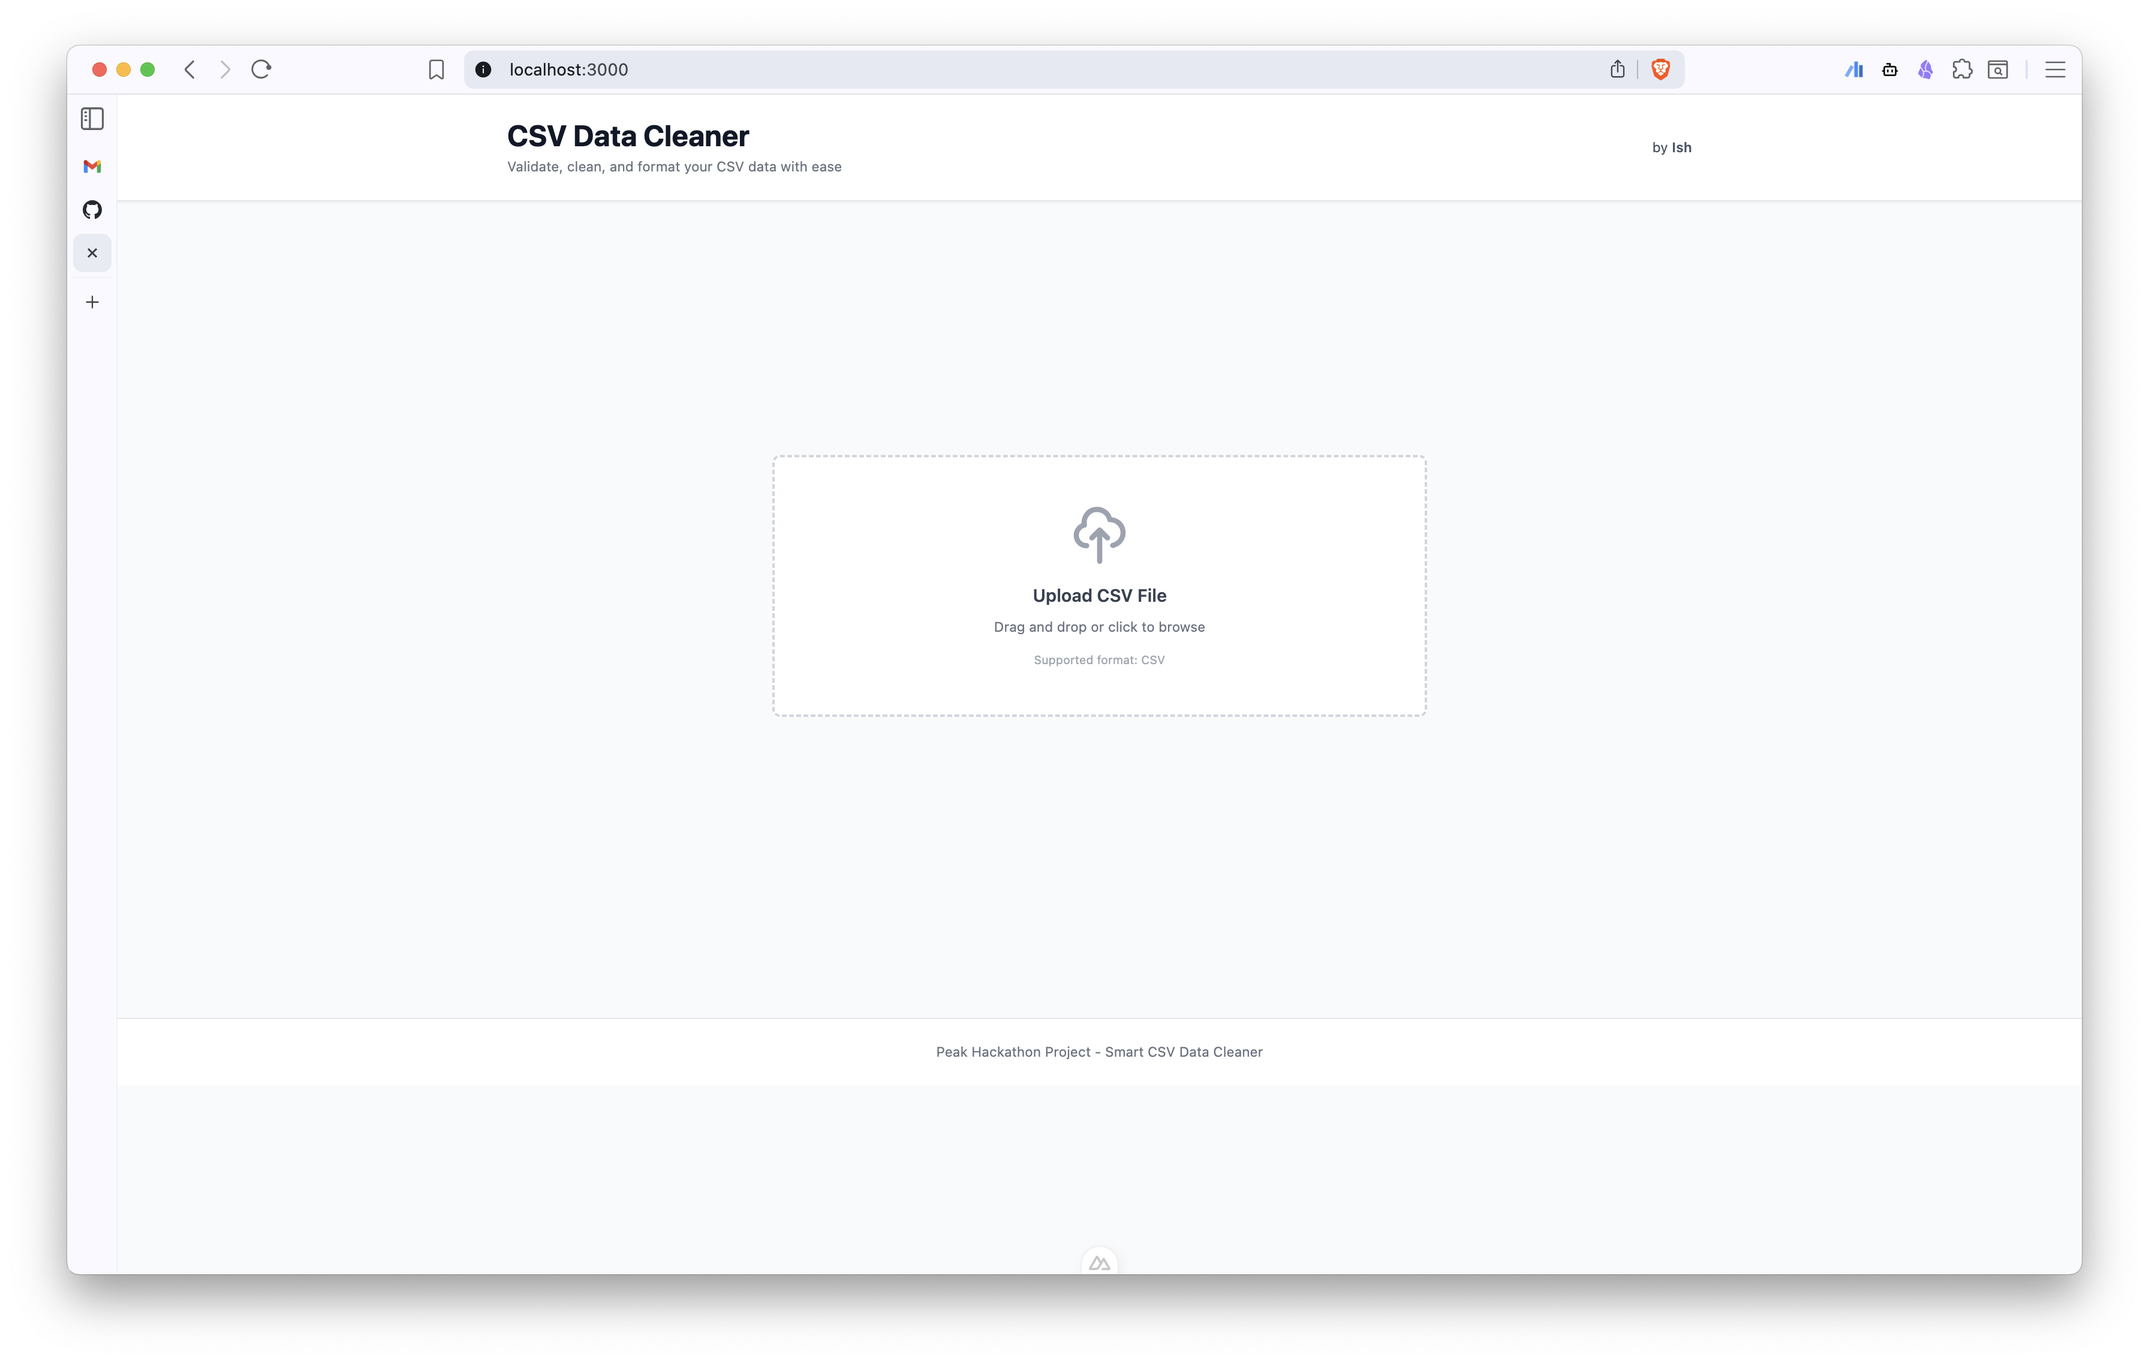
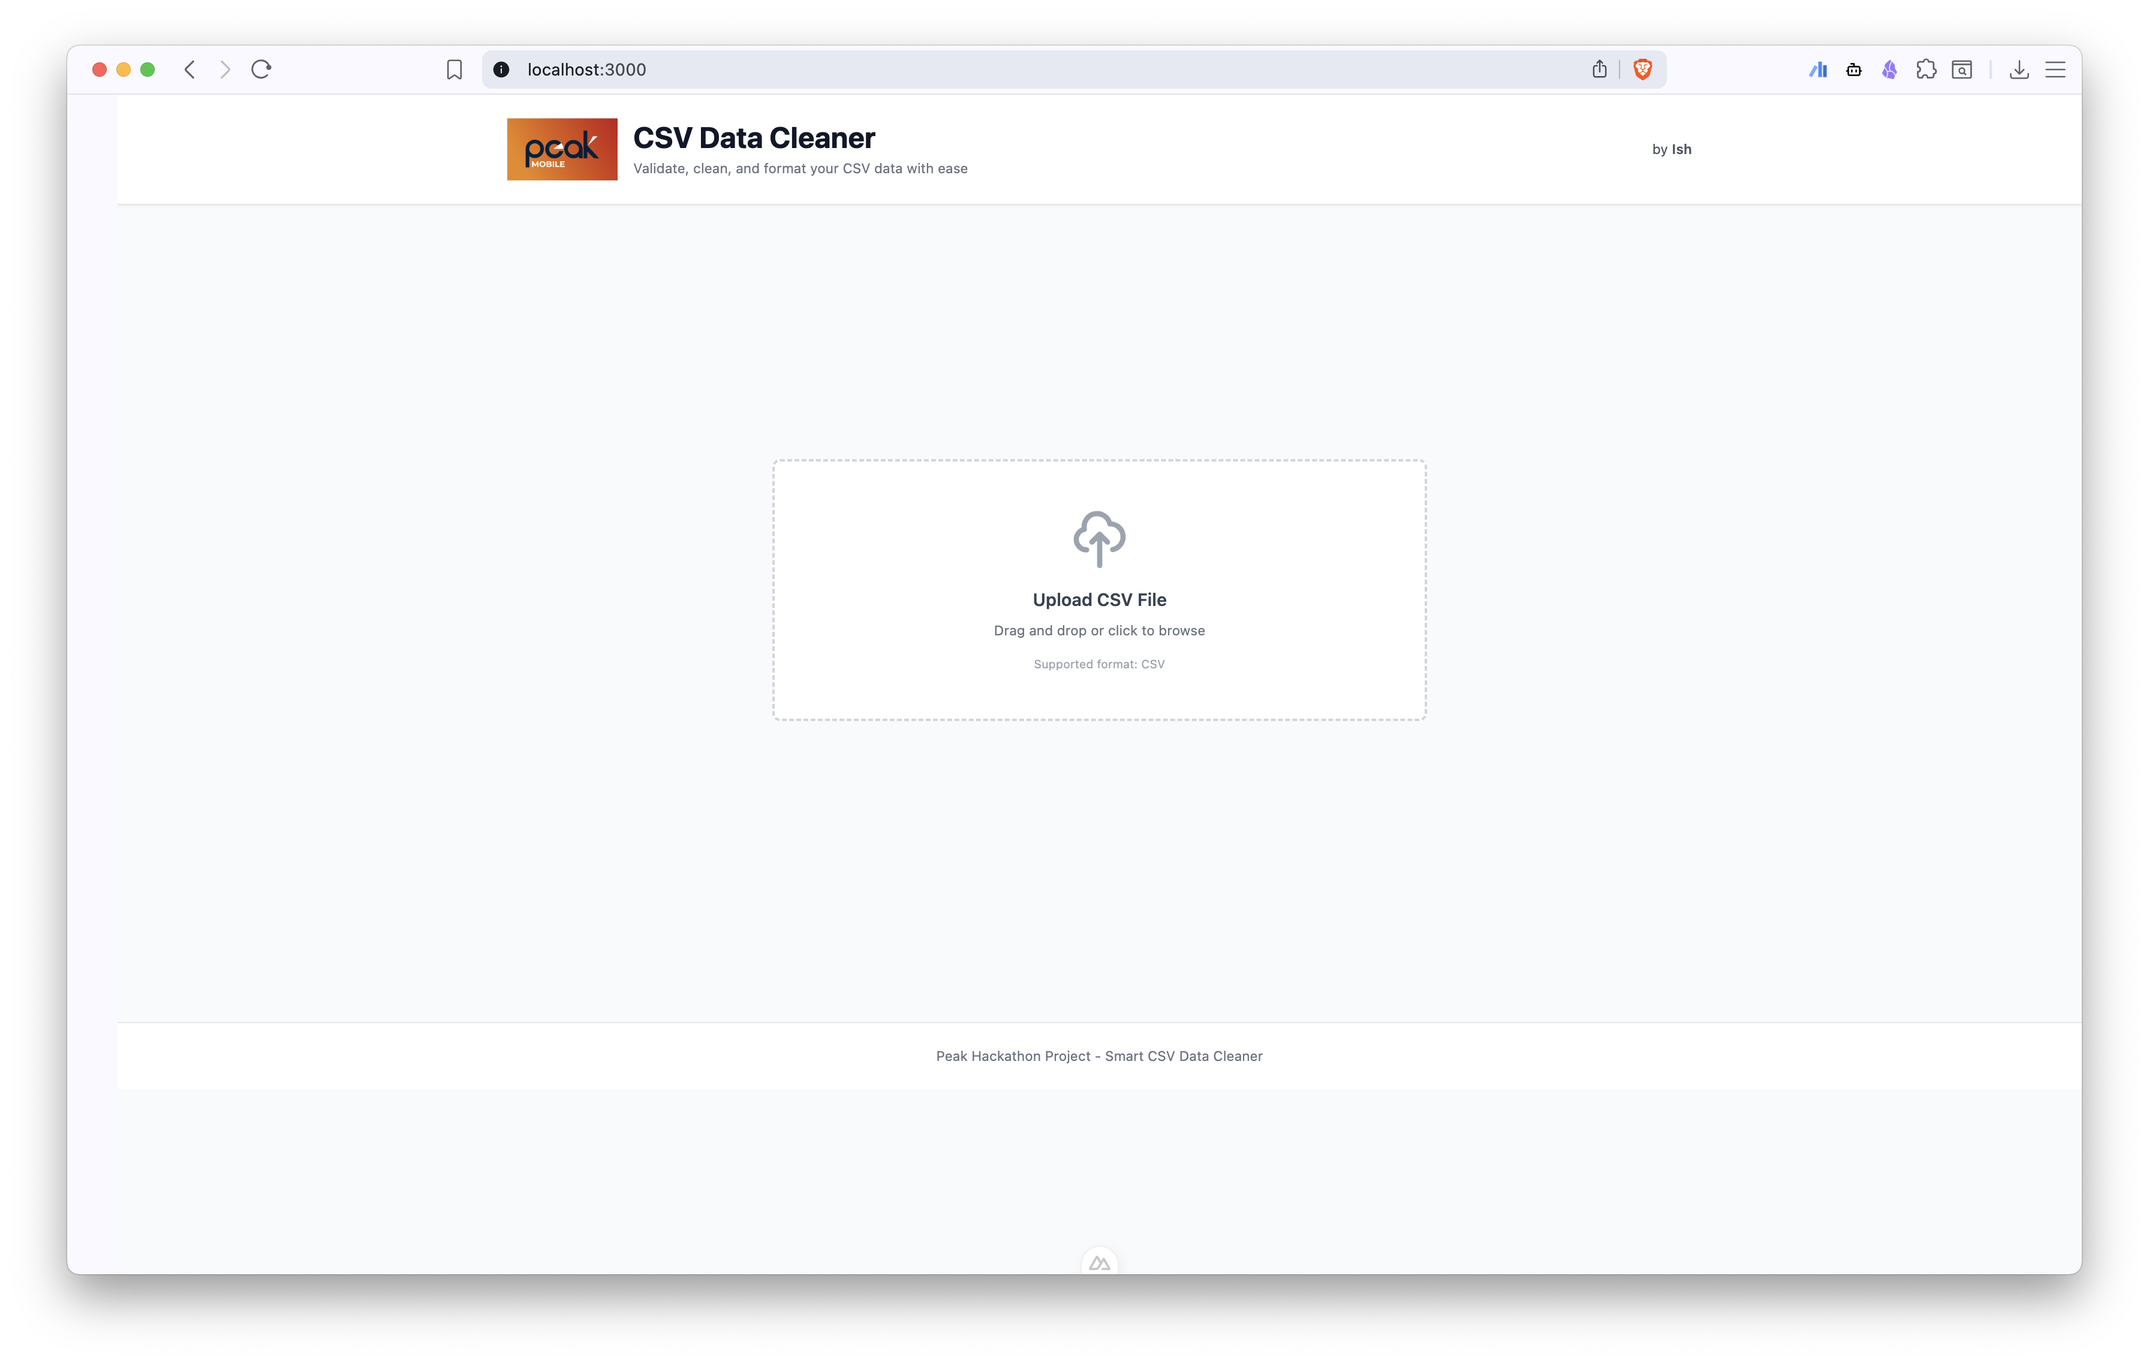
docs: add missing screenshots (statistics and download/filter options) to README

diff --git a/app/components/table/DataTable.vue b/app/components/table/DataTable.vue
@@ -160,7 +160,7 @@ const deleteSelected = () => {
 
 const getRowClass = (row: CsvRow) => {
   const baseClass = selectedRows.value.has(row._id!) 
-    ? 'ring-2 ring-blue-500 ring-offset-2' 
+    ? 'ring-2 ring-primary-500 ring-offset-2' 
     : ''
   
   switch (row._status) {
@@ -233,7 +233,7 @@ const sortByPackage = () => {
               v-model="searchQuery"
               type="text"
               placeholder="Search..."
-              class="w-full pl-10 pr-4 py-2 border border-gray-300 rounded-lg text-sm focus:ring-2 focus:ring-blue-500 focus:border-transparent h-9"
+              class="w-full pl-10 pr-4 py-2 border border-gray-300 rounded-lg text-sm focus:ring-2 focus:ring-primary-500 focus:border-transparent h-9"
             >
             <svg class="absolute left-3 top-2.5 w-5 h-5 text-gray-400" fill="none" stroke="currentColor" viewBox="0 0 24 24">
               <path stroke-linecap="round" stroke-linejoin="round" stroke-width="2" d="M21 21l-6-6m2-5a7 7 0 11-14 0 7 7 0 0114 0z" />
@@ -251,7 +251,7 @@ const sortByPackage = () => {
               <path stroke-linecap="round" stroke-linejoin="round" stroke-width="2" d="M3 4a1 1 0 011-1h16a1 1 0 011 1v2.586a1 1 0 01-.293.707l-6.414 6.414a1 1 0 00-.293.707V17l-4 4v-6.586a1 1 0 00-.293-.707L3.293 7.293A1 1 0 013 6.586V4z" />
             </svg>
             <span class="whitespace-nowrap">Filters</span>
-            <span v-if="statusFilter !== 'all' || telcoFilter.length > 0" class="ml-1.5 bg-blue-500 text-white rounded-full w-5 h-5 flex items-center justify-center text-xs flex-shrink-0">
+            <span v-if="statusFilter !== 'all' || telcoFilter.length > 0" class="ml-1.5 bg-primary-500 text-white rounded-full w-5 h-5 flex items-center justify-center text-xs flex-shrink-0">
               {{ (statusFilter !== 'all' ? 1 : 0) + telcoFilter.length }}
             </span>
           </UiButton>
@@ -263,7 +263,7 @@ const sortByPackage = () => {
             <label class="text-sm text-gray-600 whitespace-nowrap">Rows:</label>
             <select
               v-model.number="pageSize"
-              class="px-2 py-1 border border-gray-300 rounded text-sm focus:ring-2 focus:ring-blue-500 focus:border-transparent h-9"
+              class="px-2 py-1 border border-gray-300 rounded text-sm focus:ring-2 focus:ring-primary-500 focus:border-transparent h-9"
               @change="changePageSize"
             >
               <option v-for="size in pageSizeOptions" :key="size" :value="size">
@@ -308,8 +308,8 @@ const sortByPackage = () => {
               :key="status"
               class="px-3 py-1.5 rounded-lg border-2 text-sm font-medium transition-all capitalize"
               :class="statusFilter === status
-                ? 'border-blue-500 bg-blue-500 text-white'
-                : 'border-gray-300 bg-white text-gray-700 hover:border-blue-300'"
+                ? 'border-primary-500 bg-primary-500 text-white'
+                : 'border-gray-300 bg-white text-gray-700 hover:border-primary-300'"
               @click="statusFilter = status"
             >
               {{ status }}
@@ -384,7 +384,7 @@ const sortByPackage = () => {
                   type="checkbox"
                   :checked="selectedRows.size === paginatedRows.length && paginatedRows.length > 0"
                   :indeterminate="selectedRows.size > 0 && selectedRows.size < paginatedRows.length"
-                  class="w-4 h-4 text-blue-600 border-gray-300 rounded focus:ring-blue-500"
+                  class="w-4 h-4 text-primary-600 border-gray-300 rounded focus:ring-primary-500"
                   @change="selectAll"
                 >
               </th>
@@ -415,7 +415,7 @@ const sortByPackage = () => {
                 <input
                   type="checkbox"
                   :checked="selectedRows.has(row._id!)"
-                  class="w-4 h-4 text-blue-600 border-gray-300 rounded focus:ring-blue-500"
+                  class="w-4 h-4 text-primary-600 border-gray-300 rounded focus:ring-primary-500"
                   @change="toggleRowSelection(row._id!)"
                 >
               </td>
@@ -438,7 +438,7 @@ const sortByPackage = () => {
                   <input
                     v-if="editingRow === row._id"
                     v-model="row[header]"
-                    class="w-full px-2 py-1 border border-blue-300 rounded focus:outline-none focus:ring-2 focus:ring-blue-500 text-sm"
+                    class="w-full px-2 py-1 border border-primary-300 rounded focus:outline-none focus:ring-2 focus:ring-primary-500 text-sm"
                     autofocus
                     @blur="saveEdit(row)"
                     @keyup.enter="saveEdit(row)"
@@ -458,7 +458,7 @@ const sortByPackage = () => {
                       :class="{
                         'text-green-600': row._telco === 'Safaricom',
                         'text-red-600': row._telco === 'Airtel',
-                        'text-blue-600': row._telco === 'Telkom'
+                        'text-primary-600': row._telco === 'Telkom'
                       }"
                     >
                       ({{ row._telco }})
@@ -552,7 +552,7 @@ const sortByPackage = () => {
               :key="page"
               class="px-3 py-1.5 border rounded text-sm font-medium transition-colors"
               :class="page === currentPage 
-                ? 'bg-blue-600 text-white border-blue-600' 
+                ? 'bg-primary-600 text-white border-primary-600' 
                 : 'bg-white text-gray-700 border-gray-300 hover:bg-gray-50'"
               @click="goToPage(page)"
             >
@@ -591,7 +591,7 @@ const sortByPackage = () => {
             min="1"
             :max="totalPages"
             :value="currentPage"
-            class="w-16 px-2 py-1.5 border border-gray-300 rounded text-sm text-center focus:ring-2 focus:ring-blue-500 focus:border-transparent"
+            class="w-16 px-2 py-1.5 border border-gray-300 rounded text-sm text-center focus:ring-2 focus:ring-primary-500 focus:border-transparent"
             @change="(e) => goToPage(parseInt((e.target as HTMLInputElement).value))"
           >
         </div>

diff --git a/app/components/dashboard/StatsSummary.vue b/app/components/dashboard/StatsSummary.vue
@@ -72,10 +72,10 @@ const statCards = computed(() => [
     label: 'Success Rate',
     value: `${successRate.value}%`,
     icon: '📈',
-    color: 'blue',
-    bg: 'bg-blue-50',
-    text: 'text-blue-700',
-    border: 'border-blue-200'
+    color: 'primary',
+    bg: 'bg-primary-50',
+    text: 'text-primary-700',
+    border: 'border-primary-200'
   }
 ])
 </script>
@@ -85,7 +85,7 @@ const statCards = computed(() => [
     <!-- Header -->
     <div class="flex items-center justify-between">
       <h2 class="text-xl font-bold text-gray-900 flex items-center gap-2">
-        <svg class="w-6 h-6 text-blue-600" fill="none" stroke="currentColor" viewBox="0 0 24 24">
+        <svg class="w-6 h-6 text-primary-600" fill="none" stroke="currentColor" viewBox="0 0 24 24">
           <path stroke-linecap="round" stroke-linejoin="round" stroke-width="2" d="M9 19v-6a2 2 0 00-2-2H5a2 2 0 00-2 2v6a2 2 0 002 2h2a2 2 0 002-2zm0 0V9a2 2 0 012-2h2a2 2 0 012 2v10m-6 0a2 2 0 002 2h2a2 2 0 002-2m0 0V5a2 2 0 012-2h2a2 2 0 012 2v14a2 2 0 01-2 2h-2a2 2 0 01-2-2z" />
         </svg>
         Data Summary
@@ -178,13 +178,13 @@ const statCards = computed(() => [
     <div class="border-t border-gray-200 pt-6">
       <div class="flex items-center justify-between mb-4">
         <h3 class="text-base font-semibold text-gray-900 flex items-center gap-2">
-          <svg class="w-5 h-5 text-blue-600" fill="none" stroke="currentColor" viewBox="0 0 24 24">
+          <svg class="w-5 h-5 text-primary-600" fill="none" stroke="currentColor" viewBox="0 0 24 24">
             <path stroke-linecap="round" stroke-linejoin="round" stroke-width="2" d="M12 8c-1.657 0-3 .895-3 2s1.343 2 3 2 3 .895 3 2-1.343 2-3 2m0-8c1.11 0 2.08.402 2.599 1M12 8V7m0 1v8m0 0v1m0-1c-1.11 0-2.08-.402-2.599-1M21 12a9 9 0 11-18 0 9 9 0 0118 0z" />
           </svg>
            Mocked Balance Analysis
         </h3>
         <button
-          class="text-sm text-blue-600 hover:text-blue-700 font-medium flex items-center gap-1 transition-colors"
+          class="text-sm text-primary-600 hover:text-primary-700 font-medium flex items-center gap-1 transition-colors"
           @click="toggleBalanceInput"
         >
           <svg class="w-4 h-4" fill="none" stroke="currentColor" viewBox="0 0 24 24">
@@ -205,7 +205,7 @@ const statCards = computed(() => [
               min="0"
               step="1"
               placeholder="Enter available units"
-              class="w-full px-4 py-2.5 border-2 border-gray-300 rounded-lg text-sm focus:ring-2 focus:ring-blue-500 focus:border-blue-500 transition-all"
+              class="w-full px-4 py-2.5 border-2 border-gray-300 rounded-lg text-sm focus:ring-2 focus:ring-primary-500 focus:border-primary-500 transition-all"
               @input="handleBalanceInput"
             >
           </div>

diff --git a/app/components/upload/UploadZone.vue b/app/components/upload/UploadZone.vue
@@ -67,7 +67,7 @@ const processFile = async (file: File) => {
     <div
       class="border-2 border-dashed rounded-lg p-12 text-center cursor-pointer transition-all duration-200"
       :class="{
-        'border-blue-500 bg-blue-50': isDragging,
+        'border-primary-500 bg-primary-50': isDragging,
         'border-gray-300 hover:border-gray-400 bg-white': !isDragging
       }"
       @drop.prevent="handleDrop"
@@ -79,7 +79,7 @@ const processFile = async (file: File) => {
         <!-- Upload Icon -->
         <svg
           class="w-16 h-16 text-gray-400"
-          :class="{ 'text-blue-500': isDragging }"
+          :class="{ 'text-primary-500': isDragging }"
           fill="none"
           stroke="currentColor"
           viewBox="0 0 24 24"
@@ -127,11 +127,11 @@ const processFile = async (file: File) => {
     <!-- Loading state -->
     <div
       v-if="isUploading"
-      class="mt-4 p-4 bg-blue-50 border border-blue-200 rounded-lg"
+      class="mt-4 p-4 bg-primary-50 border border-primary-200 rounded-lg"
     >
       <div class="flex items-center space-x-3">
-        <div class="animate-spin h-5 w-5 border-2 border-blue-500 border-t-transparent rounded-full"/>
-        <span class="text-sm text-blue-700">Processing your CSV file...</span>
+        <div class="animate-spin h-5 w-5 border-2 border-primary-500 border-t-transparent rounded-full"/>
+        <span class="text-sm text-primary-700">Processing your CSV file...</span>
       </div>
     </div>
   </div>

diff --git a/app/app.vue b/app/app.vue
@@ -12,13 +12,20 @@ const handleFileUpload = (file: File) => {
     <header class="bg-white border-b border-gray-200 shadow-sm">
       <div class="max-w-7xl mx-auto px-4 sm:px-6 lg:px-8 py-6">
         <div class="flex items-center justify-between">
-          <div>
-            <h1 class="text-3xl font-bold text-gray-900">
-              CSV Data Cleaner
-            </h1>
-            <p class="text-sm text-gray-500 mt-1">
-              Validate, clean, and format your CSV data with ease
-            </p>
+          <div class="flex items-center gap-4">
+            <img 
+              src="/logos/logo_1.jpeg" 
+              alt="CSV Cleaner Logo" 
+              class="h-16 w-auto object-contain"
+            >
+            <div>
+              <h1 class="text-3xl font-bold text-gray-900">
+                CSV Data Cleaner
+              </h1>
+              <p class="text-sm text-gray-500 mt-1">
+                Validate, clean, and format your CSV data with ease
+              </p>
+            </div>
           </div>
           <div class="text-right">
             <p class="text-sm text-gray-600">by <span class="font-semibold">Ish</span></p>

diff --git a/app/components/ui/Button.vue b/app/components/ui/Button.vue
@@ -21,7 +21,7 @@ const buttonClasses = computed(() => {
   const base = 'font-medium rounded-lg transition-colors duration-200 focus:outline-none focus:ring-2 focus:ring-offset-2'
   
   const variants = {
-    primary: 'bg-blue-600 text-white hover:bg-blue-700 focus:ring-blue-500 disabled:bg-blue-300',
+    primary: 'bg-primary-600 text-white hover:bg-primary-700 focus:ring-primary-500 disabled:bg-primary-300',
     secondary: 'bg-gray-600 text-white hover:bg-gray-700 focus:ring-gray-500 disabled:bg-gray-300',
     danger: 'bg-red-600 text-white hover:bg-red-700 focus:ring-red-500 disabled:bg-red-300',
     success: 'bg-green-600 text-white hover:bg-green-700 focus:ring-green-500 disabled:bg-green-300',

diff --git a/app/components/ui/Alert.vue b/app/components/ui/Alert.vue
@@ -14,7 +14,7 @@ const alertClasses = computed(() => {
     success: 'bg-green-50 border-green-200 text-green-800',
     error: 'bg-red-50 border-red-200 text-red-800',
     warning: 'bg-yellow-50 border-yellow-200 text-yellow-800',
-    info: 'bg-blue-50 border-blue-200 text-blue-800'
+    info: 'bg-primary-50 border-primary-200 text-primary-800'
   }
   
   return [base, variants[props.variant]].join(' ')
@@ -63,7 +63,7 @@ const alertClasses = computed(() => {
         </svg>
         <svg
           v-else
-          class="h-5 w-5 text-blue-600"
+          class="h-5 w-5 text-primary-600"
           fill="currentColor"
           viewBox="0 0 20 20"
         >

diff --git a/tailwind.config.js b/tailwind.config.js
@@ -1,0 +1,31 @@
+/** @type {import('tailwindcss').Config} */
+export default {
+  content: [
+    "./components/**/*.{js,vue,ts}",
+    "./layouts/**/*.vue",
+    "./pages/**/*.vue",
+    "./plugins/**/*.{js,ts}",
+    "./app.vue",
+    "./app/**/*.vue",
+  ],
+  theme: {
+    extend: {
+      colors: {
+        primary: {
+          50: '#f5f3ff',
+          100: '#ede9fe',
+          200: '#ddd6fe',
+          300: '#c4b5fd',
+          400: '#a78bfa',
+          500: '#8b5cf6',
+          600: '#7c3aed',
+          700: '#6d28d9',
+          800: '#5b21b6',
+          900: '#4c1d95',
+        },
+      },
+    },
+  },
+  plugins: [],
+}
+

diff --git a/app/components/export/ExportControls.vue b/app/components/export/ExportControls.vue
@@ -273,7 +273,7 @@ const formatIcons = {
             <label class="block text-sm font-medium text-gray-700">Select Columns (Optional)</label>
             <div class="flex gap-2">
               <button
-                class="text-xs px-2 py-1 bg-blue-50 text-blue-600 hover:bg-blue-100 rounded font-medium transition-colors"
+                class="text-xs px-2 py-1 bg-primary-50 text-primary-600 hover:bg-primary-100 rounded font-medium transition-colors"
                 @click="selectAllColumns"
               >
                 Select All

diff --git a/app/components/ui/Badge.vue b/app/components/ui/Badge.vue
@@ -16,7 +16,7 @@ const badgeClasses = computed(() => {
     success: 'bg-green-100 text-green-800',
     error: 'bg-red-100 text-red-800',
     warning: 'bg-yellow-100 text-yellow-800',
-    info: 'bg-blue-100 text-blue-800',
+    info: 'bg-primary-100 text-primary-800',
     gray: 'bg-gray-100 text-gray-800'
   }
   

diff --git a/CHANGELOG.md b/CHANGELOG.md
@@ -386,6 +386,10 @@ The first production-ready version of CSV Phone Validator, built for Peak Hackat
 ## Git Commit History
 
 ### 2025-11-19
+- `452d646` - refactor: improve button alignment and spacing in DataTable component for better UI consistency
+- `bbf815b` - refactor: update UI components for export and dashboard, enhance filtering options, and improve data handling
+- `2d7635c` - feat: enhance export, filtering, and UI design
+- `d20e2ea` - docs: update CHANGELOG with v1.2.1 release notes
 - `7594a66` - chore: add @types/node dependency for TypeScript support
 - `ce277d1` - fix: update import path in test-validation.ts
 
@@ -422,7 +426,7 @@ The first production-ready version of CSV Phone Validator, built for Peak Hackat
 
 ## Summary
 
-**Total Commits**: 27  
+**Total Commits**: 31  
 **Development Time**: ~3 days  
 **Lines of Code**: ~3000+  
 **Test Coverage**: 14/14 tests passing  

diff --git a/README.md b/README.md
@@ -207,6 +207,18 @@ Color-coded validation results with inline editing, statistics, and export contr
 - ✏ Inline editing (double-click to fix)
 - 📥 Export controls with preview
 
+### Statistics Dashboard
+
+Comprehensive real-time statistics showing validation metrics, balance analysis, and data insights.
+
+![Statistics Dashboard](public/images/statistics.png)
+
+### Download and Filter Options
+
+Advanced filtering and export controls for downloading cleaned data with customizable options.
+
+![Download and Filter Options](public/images/download_and_filter_options.png)
+
 ## 🎯 Use Cases
 
 - 📱 **Bulk SMS Services**: Validate phone numbers before sending
